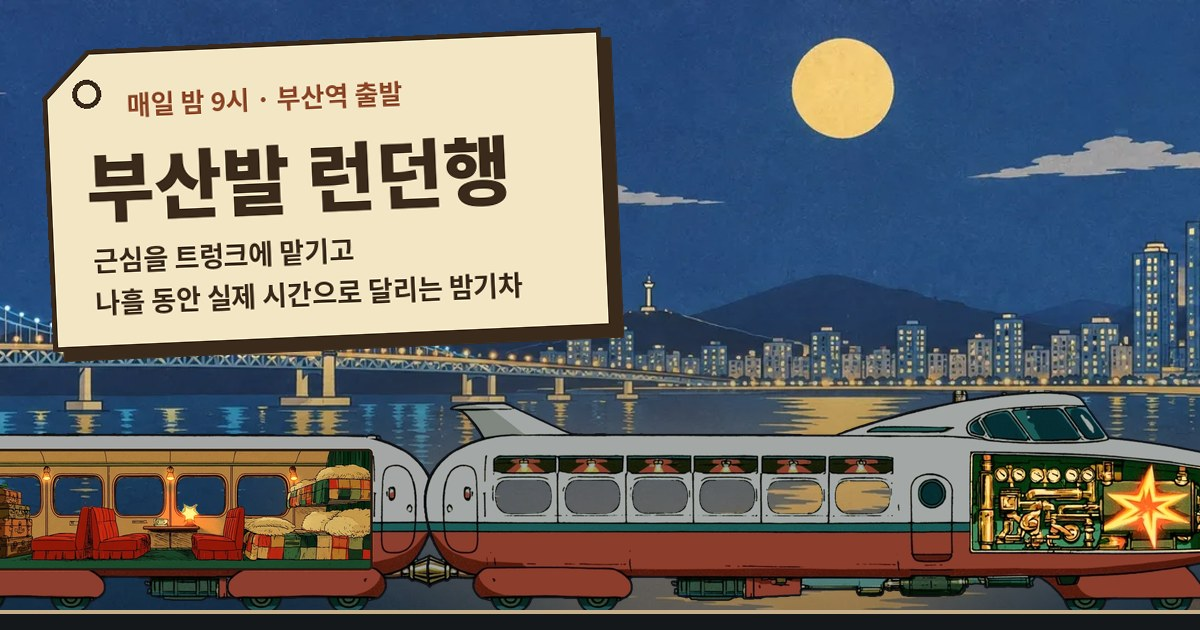
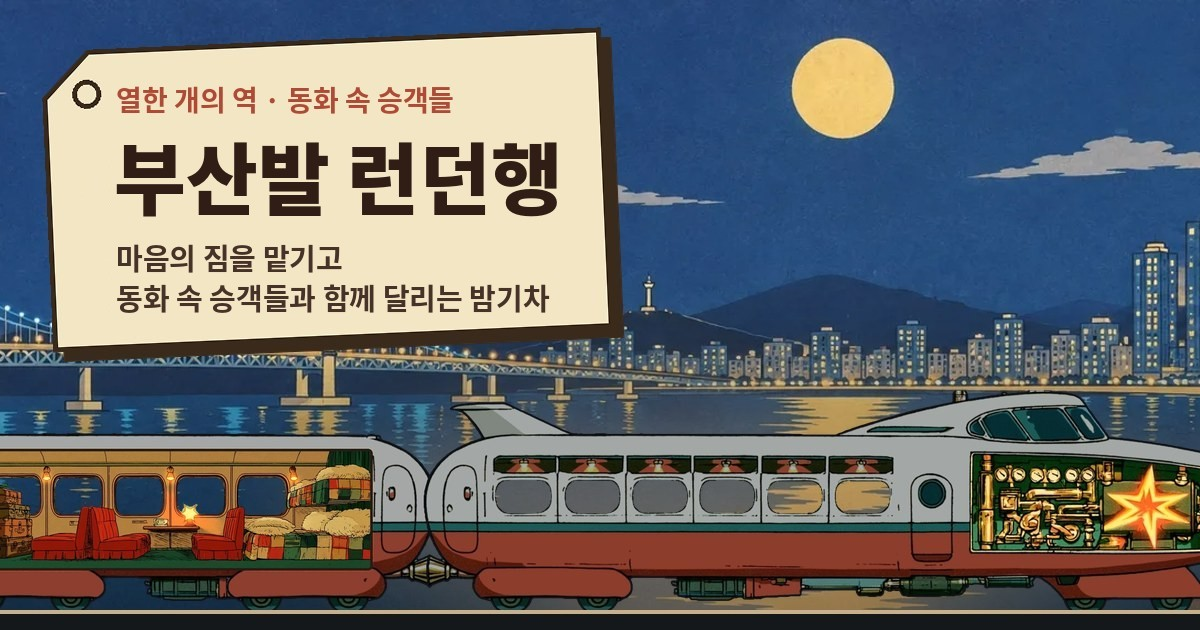
QA fixes: particle, copy, sparkle, mobile hint, seat next button, ticket duration, new og image
Claude-Session: https://claude.ai/code/session_015fNbvzvz4xuREQtMjmLhTY

Changed region(s): [[0.0617, 0.2111, 0.4625, 0.5127], [0.0925, 0.1206, 0.4008, 0.181]]

diff --git a/index.html b/index.html
@@ -2,13 +2,13 @@
 <html lang="ko"><head><meta charset="utf-8"><base href="/stage/"><script>try{if(!localStorage.getItem("bl_trip")&&!/[?&](h|seat)=?/.test(location.search))document.documentElement.classList.add("notrip")}catch(e){}</script><style>html.notrip body::before{content:"";position:fixed;inset:0;background:#0b1418;z-index:44}</style>
 <meta name="viewport" content="width=device-width,initial-scale=1,viewport-fit=cover,user-scalable=no">
 <title>부산발 런던행 — 마음의 짐을 맡기는 밤기차</title>
-<meta name="description" content="마음의 짐을 트렁크에 맡기는 순간 부산역을 떠나, 하루 동안 실제 시간으로 런던까지 달리는 꿈의 밤기차. 창가에 앉아 보세요.">
+<meta name="description" content="마음의 짐을 꼬리표에 맡기고, 열한 개의 역마다 동화 속 승객을 만나 런던까지 함께 가는 따뜻한 밤기차.">
 <meta property="og:type" content="website"><meta property="og:site_name" content="부산발 런던행">
 <meta property="og:title" content="부산발 런던행 — 마음의 짐을 맡기는 밤기차">
 <meta property="og:description" content="마음의 짐을 꼬리표에 적어 맡기면 부산역 출발. 동화 속 승객들이 서로의 짐을 들어 주는 런던행 열차.">
-<meta property="og:url" content="https://ejdms499-wq.github.io/"><meta property="og:image" content="https://ejdms499-wq.github.io/og.jpg?v=2">
+<meta property="og:url" content="https://ejdms499-wq.github.io/"><meta property="og:image" content="https://ejdms499-wq.github.io/og.jpg?v=3">
 <meta property="og:image:width" content="1200"><meta property="og:image:height" content="630"><meta property="og:locale" content="ko_KR">
-<meta name="twitter:card" content="summary_large_image"><meta name="twitter:image" content="https://ejdms499-wq.github.io/og.jpg?v=2">
+<meta name="twitter:card" content="summary_large_image"><meta name="twitter:image" content="https://ejdms499-wq.github.io/og.jpg?v=3">
 <meta name="theme-color" content="#0d2230"><link rel="icon" href="/icon.png"><link rel="apple-touch-icon" href="/icon.png">
 
 <style>
@@ -135,7 +135,7 @@ body.talk #snd,body.talk #trk,body.talk #seat{opacity:.0;pointer-events:none}
   -webkit-mask:radial-gradient(circle at 50% 38%,transparent 26%,#000 60%);mask:radial-gradient(circle at 50% 38%,transparent 26%,#000 60%)}
 
 @keyframes spin{to{filter:hue-rotate(0deg);transform:rotate(3deg)}}
-#cg .spk{background-image:radial-gradient(circle,#fff6d8 0 2px,transparent 3px),radial-gradient(circle,#fff6d8 0 1.5px,transparent 2.5px);background-size:90px 110px,57px 73px;background-position:0 0,30px 20px}
+#cg .spk{background-image:radial-gradient(circle,rgba(255,246,216,.85) 0 1.6px,transparent 2.6px),radial-gradient(circle,rgba(255,246,216,.55) 0 1.1px,transparent 2px),radial-gradient(circle,rgba(255,236,190,.7) 0 2.2px,transparent 3.4px);background-size:173px 211px,97px 131px,317px 263px;background-position:11px 37px,61px 5px,140px 90px;-webkit-mask-image:radial-gradient(ellipse at 50% 40%,#000 25%,rgba(0,0,0,.25) 75%);mask-image:radial-gradient(ellipse at 50% 40%,#000 25%,rgba(0,0,0,.25) 75%)}
 #cg .spk.on{animation:spk 3s linear infinite}
 @keyframes spk{to{background-position:0 -220px,30px -126px}}
 #cg .snow{background-image:radial-gradient(circle,#fff 0 2px,transparent 3px),radial-gradient(circle,#fff 0 1.4px,transparent 2.4px);background-size:70px 70px,43px 51px}
@@ -433,6 +433,9 @@ body.talk #nextB,body.amb #nextB,body.intro #nextB{opacity:0!important;pointer-e
 body.talk #carP,body.amb #carP{opacity:0!important;pointer-events:none!important}
 @media (max-width:520px){#carP{bottom:calc(150px + env(safe-area-inset-bottom))}}
 #cg .item img.dish{width:min(220px,60vw);aspect-ratio:1;object-fit:cover;border-radius:50%;border:3px solid #3a2a1c;box-shadow:3px 3px 0 #3a2a1c;display:block;margin:0 auto 6px}
+@media (max-width:520px){#hint{display:none!important}}
+body.seat #nextB{bottom:auto;top:calc(76px + env(safe-area-inset-top))}
+@media (max-width:520px){body.seat #nextB{top:calc(96px + env(safe-area-inset-top))}}
 </style></head><body>
 <div id="tag"><b>부산</b><span id="tagS">그림 겹 무대 · 시험판</span><i id="tagI"></i></div>
 <div id="dev"><span>출발 후</span><input id="devR" type="range" min="0" max="91.9" step="0.1"><span id="devV"></span></div>
@@ -1291,7 +1294,7 @@ function showWait(){waitEl.style.backgroundImage='';waitEl.classList.add('on');d
 function hideWait(){waitEl.classList.remove('on');document.body.classList.remove('talk');clearInterval(waitT)}
 function renderWait(){if(TRIP&&!TRIP.fin){hideWait();return}
   const arrived=!!TRIP;
-  if(arrived){$('wBoard').innerHTML=`<small>LONDON · 종착역</small><b>런던에 도착했어요</b><div class="st" style="margin-top:6px">하룻밤 하룻낮, 수고 많았어요.${LS.get('bl_end',null)?'<br>맡겼던 마음의 짐은 트렁크와 함께 돌려받았어요.':''}</div>`;
+  if(arrived){$('wBoard').innerHTML=`<small>LONDON · 종착역</small><b>런던에 도착했어요</b><div class="st" style="margin-top:6px">열한 개의 역, 수고 많았어요.${LS.get('bl_end',null)?'<br>맡겼던 마음의 짐은 트렁크와 함께 돌려받았어요.':''}</div>`;
     if(renderWait.b!=='a'){renderWait.b='a';
       $('wBtns').innerHTML=(LS.get('bl_end',null)?'<button class="pbtn2" id="wRp">✉ 셜록의 엽서 보기</button>':'')+'<button class="pbtn2'+(LS.get('bl_end',null)?' l':'')+'" id="wAg">새 새 짐 맡기고 다시 타기</button><button class="pbtn2 l" id="wStay">런던 창밖 조금 더 보기</button>';
       const r=$('wRp');if(r)r.onclick=()=>showReply();
@@ -1542,7 +1545,7 @@ post.querySelectorAll('.albT button').forEach(b=>b.onclick=()=>postOpen(b.datase
 function postOpen(t){postOpen.tab=t;post.classList.add('on');post.querySelectorAll('.albT button').forEach(b=>b.classList.toggle('on',b.dataset.t===t));
   const box=post.querySelector('.pB');
   if(t==='mail'){const L=mailList();
-    if(!L.length){box.innerHTML='<p class="cnt">아직 받은 편지가 없어요.<br>맞은편 승객과 이야기를 나누면, 그 사람이 내린 뒤 편지가 와요.</p>';return}
+    if(!L.length){box.innerHTML='<p class="cnt">아직 받은 편지가 없어요.<br>승객과 함께 역을 지나면, 그 승객이 편지가 와요.</p>';return}
     box.innerHTML='<p class="cnt">받은 편지 '+L.length+'통</p><div class="envs">'+L.map(([k,v])=>{const [id,ty]=k.split(':'),c=CAST[id],m=MAIL[id],th=TH[id]||{};
       return `<button class="env${v.read?'':' un'}" data-k="${k}" style="--ac:${th.acc||'#8a5a2b'};--bg:${th.bg||'#f3e6c4'}"><span class="stp">${m.st}</span><b>${c?c.n:''}</b><small>${ty==='l3'?'단짝 편지':'역을 지나며 쓴 편지'}</small></button>`}).join('')+'</div>';
     box.querySelectorAll('.env').forEach(b=>b.onclick=()=>letterOpen(b.dataset.k));return}
@@ -1593,20 +1596,20 @@ function makeTicket(){const T=TRUNK&&TRIP&&TRUNK.dep===TRIP.dep?TRUNK:null;card.
   g.strokeStyle='rgba(90,61,34,.08)';g.lineWidth=2;for(let y=8;y<H;y+=9){g.beginPath();g.moveTo(x,y);g.lineTo(x+W,y);g.stroke()}
   g.fillStyle='#0b1418';g.beginPath();g.arc(0,70,30,0,7);g.fill();g.lineWidth=12;g.strokeStyle='#b8a27a';g.stroke();
   g.fillStyle='#3a2a1c';g.textAlign='center';g.font='700 30px '+F;g.fillText('부산발 런던행 · 승차권',0,180);
-  g.font='900 70px '+F;g.textAlign='left';g.fillText('BUSAN',x+56,300);g.textAlign='right';g.fillText('LONDON',x+W-56,300);g.textAlign='center';g.font='700 38px '+F;g.fillText('→',0,290);
+  g.font='900 62px '+F;g.textAlign='left';g.fillText('BUSAN',x+56,300);g.textAlign='right';g.fillText('LONDON',x+W-56,300);g.textAlign='center';g.font='700 38px '+F;g.fillText('→',0,290);
   g.fillRect(x+56,326,W-112,6);
   const row=(y,a,b)=>{g.textAlign='left';g.font='700 28px '+F;g.globalAlpha=.7;g.fillText(a,x+60,y);g.globalAlpha=1;g.textAlign='right';g.font='800 40px '+F;g.fillText(b,x+W-60,y)};
   row(410,'출발','부산 · '+hm(TRIP&&TRIP.dep||Date.now()));row(480,'도착','런던 · 11번째 역');row(550,'수하물',T?'#'+T.no:'빈 트렁크');row(620,'맡긴 짐',T?'🔒 마음의 짐 1개':'없음 · 그냥 탔어요');
   g.setLineDash([14,10]);g.lineWidth=3;g.strokeStyle='#3a2a1c';g.beginPath();g.moveTo(x+56,670);g.lineTo(x+W-56,670);g.stroke();g.setLineDash([]);
   g.textAlign='center';g.font='700 36px "Gaegu",'+F;g.fillText(T?'이 짐은 런던역에서 찾아요':'창가 자리에서 쉬어 갈게요',0,750);
-  g.font='600 26px '+F;g.globalAlpha=.75;g.fillText(CNT?'오늘 마음의 짐 '+CNT+'개가 부산역을 떠났어요':'도시마다 가장 아름다운 시각에 지나가요',0,810);g.globalAlpha=1;
+  g.font='600 26px '+F;g.globalAlpha=.75;g.fillText(CNT?'오늘 마음의 짐 '+CNT+'개가 부산역을 떠났어요':'역마다 동화 속 승객이 타요',0,810);g.globalAlpha=1;
   g.save();g.translate(W/2-140,905);g.rotate(-.25);g.strokeStyle='#b8312f';g.fillStyle='#b8312f';g.lineWidth=7;g.beginPath();g.arc(0,0,92,0,7);g.stroke();g.lineWidth=3;g.beginPath();g.arc(0,0,78,0,7);g.stroke();
   g.font='900 46px '+F;g.fillText('접수',0,6);g.font='700 22px '+F;g.fillText('BSN→LDN',0,42);g.font='700 20px '+F;g.fillText('제 '+trainNo(dep)+'호',0,-38);g.restore();
   g.textAlign='left';g.font='600 24px '+F;g.globalAlpha=.6;g.fillText('ejdms499-wq.github.io',x+60,H-40);g.globalAlpha=1;
   g.restore();card.classList.add('on')}
 const tkB=document.createElement('button');tkB.id='tkB';tkB.className='paper';tkB.innerHTML='🎫 승차권이 나왔어요 <small>저장 · 공유</small>';document.body.appendChild(tkB);
 tkB.onclick=e=>{e.stopPropagation();tkB.classList.remove('on');makeTicket()};
-function tkShow(){tkB.classList.add('on');clearTimeout(tkShow.t);tkShow.t=setTimeout(()=>tkB.classList.remove('on'),14000)}
+function tkShow(){tkB.classList.add('on');clearTimeout(tkShow.t);tkShow.t=setTimeout(()=>tkB.classList.remove('on'),45000)}
 /* 소리: 브라우저 규칙상 첫 터치/입력 때 자동으로 켬 */
 let sndAuto=false;const sndFirst=()=>{if(sndAuto)return;sndAuto=true;try{if(!sndOn&&!LS.get('bl_mute',0))$('snd').click()}catch(e){}};
 addEventListener('pointerdown',sndFirst,{capture:true,once:true});addEventListener('keydown',sndFirst,{capture:true,once:true});
@@ -1841,6 +1844,7 @@ clueList=function(){return ''};
 sherIdle=function(){const L=['이 호수는 얼었는데, 이상하게 마음은 덜 춥군.','추리할 게 없으니 창밖을 보게 되네. 나쁘지 않아.','차는 우유를 나중에 붓는 게 맞네. 이건 추리가 아니라 진리일세.','자네 덕에 시계가 다시 간다네.'];return L[Math.floor(Math.random()*L.length)]};
 
 /* ---- 화면: 노선표(꼬리표 안) · 다음 역 버튼 ---- */
+function ro(n){const c=n.charCodeAt(n.length-1);if(c<0xAC00||c>0xD7A3)return '로';const j=(c-0xAC00)%28;return (j===0||j===8)?'로':'으로'}
 const nextB=document.createElement('button');nextB.id='nextB';nextB.className='paper';document.body.appendChild(nextB);
 function dots(i){return CH.map((c,k)=>`<i class="${k<i?'p':k===i?'c':''}" title="${c.name}"></i>`).join('')}
 function uiTick(){if(!TRIP||document.body.classList.contains('intro')){nextB.classList.remove('on');return}
@@ -1849,7 +1853,7 @@ function uiTick(){if(!TRIP||document.body.classList.contains('intro')){nextB.cla
     try{const w=where(dep,vnow());tagS.innerHTML='<span class="route">'+dots(TRIP.tr?TRIP.tr.to:i)+'</span>'+(w.mode==='run'?' '+w.seg.name:'')}catch(e){}
     tagI.textContent=TRIP.tr?'창밖을 보세요 · 곧 '+CH[TRIP.tr.to].name+' 도착':!TRIP.done[i]?'이 역에서 새 승객이 타요':nx?'다음 역 · '+nx.name+(CNT?' · 오늘 짐 '+CNT+'개':''):'종착역 · 트렁크를 찾을 수 있어요'}
   let show=!busy&&!AMB&&!TRIP.fin&&!carP.classList.contains('on');let txt='';
-  if(TRIP.tr){txt='🚂 '+CH[TRIP.tr.to].name+'(으)로 가는 중…';nextB.disabled=true}
+  if(TRIP.tr){txt='🚂 '+CH[TRIP.tr.to].name+ro(CH[TRIP.tr.to].name)+' 가는 중…';nextB.disabled=true}
   else if(!TRIP.done[i]){txt='🎫 '+CAST[c.ev[0]].n+' 탑승 이야기 보기';nextB.disabled=false;nextB.dataset.a='story'}
   else if(nx){txt='다음 역으로 ▶ '+nx.name;nextB.disabled=false;nextB.dataset.a='next'}
   else{txt=TRUNK&&!TRUNK.done?'🧳 런던역 도착 · 트렁크 찾기':'🌅 런던역에서 내리기';nextB.disabled=false;nextB.dataset.a='end'}
@@ -2087,7 +2091,7 @@ function carOpen(c){const k=c.userData.k,[nm,ds]=CARINFO[k]||[c.userData.name,''
   if(k==='loco')b+='<button class="pbtn2" data-a="whistle">🚂 기적 울리기</button>';
   const ppl=who.length?'<div class="cp">'+who.map(id=>`<button class="pbtn2 l" data-p="${id}">${CAST[id].n}</button>`).join('')+'</div>':'';
   carP.innerHTML=`<div class="ch"><button class="arw" data-m="-1">◀</button><div><b>${nm}</b><small>${ds}</small></div><button class="arw" data-m="1">▶</button></div>${b}${ppl?'<div class="cnt" style="margin-top:8px">이 칸 승객 · 누르면 내 자리로 초대</div>'+ppl:''}`;
-  carP.classList.add('on');
+  carP.classList.add('on');nextB.classList.remove('on');
   carP.querySelectorAll('[data-m]').forEach(x=>x.onclick=e=>{e.stopPropagation();const n=cars[(idx+(+x.dataset.m)+cars.length)%cars.length];focusCar(n)});
   carP.querySelectorAll('[data-p]').forEach(x=>x.onclick=e=>{e.stopPropagation();carP.classList.remove('on');invite(x.dataset.p)});
   carP.querySelectorAll('[data-a]').forEach(x=>x.onclick=e=>{e.stopPropagation();const a=x.dataset.a;

diff --git a/stage/index.html b/stage/index.html
@@ -2,13 +2,13 @@
 <html lang="ko"><head><meta charset="utf-8"><script>try{if(!localStorage.getItem("bl_trip")&&!/[?&](h|seat)=?/.test(location.search))document.documentElement.classList.add("notrip")}catch(e){}</script><style>html.notrip body::before{content:"";position:fixed;inset:0;background:#0b1418;z-index:44}</style>
 <meta name="viewport" content="width=device-width,initial-scale=1,viewport-fit=cover,user-scalable=no">
 <title>부산발 런던행 — 마음의 짐을 맡기는 밤기차</title>
-<meta name="description" content="마음의 짐을 트렁크에 맡기는 순간 부산역을 떠나, 하루 동안 실제 시간으로 런던까지 달리는 꿈의 밤기차. 창가에 앉아 보세요.">
+<meta name="description" content="마음의 짐을 꼬리표에 맡기고, 열한 개의 역마다 동화 속 승객을 만나 런던까지 함께 가는 따뜻한 밤기차.">
 <meta property="og:type" content="website"><meta property="og:site_name" content="부산발 런던행">
 <meta property="og:title" content="부산발 런던행 — 마음의 짐을 맡기는 밤기차">
 <meta property="og:description" content="마음의 짐을 꼬리표에 적어 맡기면 부산역 출발. 동화 속 승객들이 서로의 짐을 들어 주는 런던행 열차.">
-<meta property="og:url" content="https://ejdms499-wq.github.io/"><meta property="og:image" content="https://ejdms499-wq.github.io/og.jpg?v=2">
+<meta property="og:url" content="https://ejdms499-wq.github.io/"><meta property="og:image" content="https://ejdms499-wq.github.io/og.jpg?v=3">
 <meta property="og:image:width" content="1200"><meta property="og:image:height" content="630"><meta property="og:locale" content="ko_KR">
-<meta name="twitter:card" content="summary_large_image"><meta name="twitter:image" content="https://ejdms499-wq.github.io/og.jpg?v=2">
+<meta name="twitter:card" content="summary_large_image"><meta name="twitter:image" content="https://ejdms499-wq.github.io/og.jpg?v=3">
 <meta name="theme-color" content="#0d2230"><link rel="icon" href="/icon.png"><link rel="apple-touch-icon" href="/icon.png">
 
 <style>
@@ -135,7 +135,7 @@ body.talk #snd,body.talk #trk,body.talk #seat{opacity:.0;pointer-events:none}
   -webkit-mask:radial-gradient(circle at 50% 38%,transparent 26%,#000 60%);mask:radial-gradient(circle at 50% 38%,transparent 26%,#000 60%)}
 
 @keyframes spin{to{filter:hue-rotate(0deg);transform:rotate(3deg)}}
-#cg .spk{background-image:radial-gradient(circle,#fff6d8 0 2px,transparent 3px),radial-gradient(circle,#fff6d8 0 1.5px,transparent 2.5px);background-size:90px 110px,57px 73px;background-position:0 0,30px 20px}
+#cg .spk{background-image:radial-gradient(circle,rgba(255,246,216,.85) 0 1.6px,transparent 2.6px),radial-gradient(circle,rgba(255,246,216,.55) 0 1.1px,transparent 2px),radial-gradient(circle,rgba(255,236,190,.7) 0 2.2px,transparent 3.4px);background-size:173px 211px,97px 131px,317px 263px;background-position:11px 37px,61px 5px,140px 90px;-webkit-mask-image:radial-gradient(ellipse at 50% 40%,#000 25%,rgba(0,0,0,.25) 75%);mask-image:radial-gradient(ellipse at 50% 40%,#000 25%,rgba(0,0,0,.25) 75%)}
 #cg .spk.on{animation:spk 3s linear infinite}
 @keyframes spk{to{background-position:0 -220px,30px -126px}}
 #cg .snow{background-image:radial-gradient(circle,#fff 0 2px,transparent 3px),radial-gradient(circle,#fff 0 1.4px,transparent 2.4px);background-size:70px 70px,43px 51px}
@@ -433,6 +433,9 @@ body.talk #nextB,body.amb #nextB,body.intro #nextB{opacity:0!important;pointer-e
 body.talk #carP,body.amb #carP{opacity:0!important;pointer-events:none!important}
 @media (max-width:520px){#carP{bottom:calc(150px + env(safe-area-inset-bottom))}}
 #cg .item img.dish{width:min(220px,60vw);aspect-ratio:1;object-fit:cover;border-radius:50%;border:3px solid #3a2a1c;box-shadow:3px 3px 0 #3a2a1c;display:block;margin:0 auto 6px}
+@media (max-width:520px){#hint{display:none!important}}
+body.seat #nextB{bottom:auto;top:calc(76px + env(safe-area-inset-top))}
+@media (max-width:520px){body.seat #nextB{top:calc(96px + env(safe-area-inset-top))}}
 </style></head><body>
 <div id="tag"><b>부산</b><span id="tagS">그림 겹 무대 · 시험판</span><i id="tagI"></i></div>
 <div id="dev"><span>출발 후</span><input id="devR" type="range" min="0" max="91.9" step="0.1"><span id="devV"></span></div>
@@ -1291,7 +1294,7 @@ function showWait(){waitEl.style.backgroundImage='';waitEl.classList.add('on');d
 function hideWait(){waitEl.classList.remove('on');document.body.classList.remove('talk');clearInterval(waitT)}
 function renderWait(){if(TRIP&&!TRIP.fin){hideWait();return}
   const arrived=!!TRIP;
-  if(arrived){$('wBoard').innerHTML=`<small>LONDON · 종착역</small><b>런던에 도착했어요</b><div class="st" style="margin-top:6px">하룻밤 하룻낮, 수고 많았어요.${LS.get('bl_end',null)?'<br>맡겼던 마음의 짐은 트렁크와 함께 돌려받았어요.':''}</div>`;
+  if(arrived){$('wBoard').innerHTML=`<small>LONDON · 종착역</small><b>런던에 도착했어요</b><div class="st" style="margin-top:6px">열한 개의 역, 수고 많았어요.${LS.get('bl_end',null)?'<br>맡겼던 마음의 짐은 트렁크와 함께 돌려받았어요.':''}</div>`;
     if(renderWait.b!=='a'){renderWait.b='a';
       $('wBtns').innerHTML=(LS.get('bl_end',null)?'<button class="pbtn2" id="wRp">✉ 셜록의 엽서 보기</button>':'')+'<button class="pbtn2'+(LS.get('bl_end',null)?' l':'')+'" id="wAg">새 새 짐 맡기고 다시 타기</button><button class="pbtn2 l" id="wStay">런던 창밖 조금 더 보기</button>';
       const r=$('wRp');if(r)r.onclick=()=>showReply();
@@ -1542,7 +1545,7 @@ post.querySelectorAll('.albT button').forEach(b=>b.onclick=()=>postOpen(b.datase
 function postOpen(t){postOpen.tab=t;post.classList.add('on');post.querySelectorAll('.albT button').forEach(b=>b.classList.toggle('on',b.dataset.t===t));
   const box=post.querySelector('.pB');
   if(t==='mail'){const L=mailList();
-    if(!L.length){box.innerHTML='<p class="cnt">아직 받은 편지가 없어요.<br>맞은편 승객과 이야기를 나누면, 그 사람이 내린 뒤 편지가 와요.</p>';return}
+    if(!L.length){box.innerHTML='<p class="cnt">아직 받은 편지가 없어요.<br>승객과 함께 역을 지나면, 그 승객이 편지가 와요.</p>';return}
     box.innerHTML='<p class="cnt">받은 편지 '+L.length+'통</p><div class="envs">'+L.map(([k,v])=>{const [id,ty]=k.split(':'),c=CAST[id],m=MAIL[id],th=TH[id]||{};
       return `<button class="env${v.read?'':' un'}" data-k="${k}" style="--ac:${th.acc||'#8a5a2b'};--bg:${th.bg||'#f3e6c4'}"><span class="stp">${m.st}</span><b>${c?c.n:''}</b><small>${ty==='l3'?'단짝 편지':'역을 지나며 쓴 편지'}</small></button>`}).join('')+'</div>';
     box.querySelectorAll('.env').forEach(b=>b.onclick=()=>letterOpen(b.dataset.k));return}
@@ -1593,20 +1596,20 @@ function makeTicket(){const T=TRUNK&&TRIP&&TRUNK.dep===TRIP.dep?TRUNK:null;card.
   g.strokeStyle='rgba(90,61,34,.08)';g.lineWidth=2;for(let y=8;y<H;y+=9){g.beginPath();g.moveTo(x,y);g.lineTo(x+W,y);g.stroke()}
   g.fillStyle='#0b1418';g.beginPath();g.arc(0,70,30,0,7);g.fill();g.lineWidth=12;g.strokeStyle='#b8a27a';g.stroke();
   g.fillStyle='#3a2a1c';g.textAlign='center';g.font='700 30px '+F;g.fillText('부산발 런던행 · 승차권',0,180);
-  g.font='900 70px '+F;g.textAlign='left';g.fillText('BUSAN',x+56,300);g.textAlign='right';g.fillText('LONDON',x+W-56,300);g.textAlign='center';g.font='700 38px '+F;g.fillText('→',0,290);
+  g.font='900 62px '+F;g.textAlign='left';g.fillText('BUSAN',x+56,300);g.textAlign='right';g.fillText('LONDON',x+W-56,300);g.textAlign='center';g.font='700 38px '+F;g.fillText('→',0,290);
   g.fillRect(x+56,326,W-112,6);
   const row=(y,a,b)=>{g.textAlign='left';g.font='700 28px '+F;g.globalAlpha=.7;g.fillText(a,x+60,y);g.globalAlpha=1;g.textAlign='right';g.font='800 40px '+F;g.fillText(b,x+W-60,y)};
   row(410,'출발','부산 · '+hm(TRIP&&TRIP.dep||Date.now()));row(480,'도착','런던 · 11번째 역');row(550,'수하물',T?'#'+T.no:'빈 트렁크');row(620,'맡긴 짐',T?'🔒 마음의 짐 1개':'없음 · 그냥 탔어요');
   g.setLineDash([14,10]);g.lineWidth=3;g.strokeStyle='#3a2a1c';g.beginPath();g.moveTo(x+56,670);g.lineTo(x+W-56,670);g.stroke();g.setLineDash([]);
   g.textAlign='center';g.font='700 36px "Gaegu",'+F;g.fillText(T?'이 짐은 런던역에서 찾아요':'창가 자리에서 쉬어 갈게요',0,750);
-  g.font='600 26px '+F;g.globalAlpha=.75;g.fillText(CNT?'오늘 마음의 짐 '+CNT+'개가 부산역을 떠났어요':'도시마다 가장 아름다운 시각에 지나가요',0,810);g.globalAlpha=1;
+  g.font='600 26px '+F;g.globalAlpha=.75;g.fillText(CNT?'오늘 마음의 짐 '+CNT+'개가 부산역을 떠났어요':'역마다 동화 속 승객이 타요',0,810);g.globalAlpha=1;
   g.save();g.translate(W/2-140,905);g.rotate(-.25);g.strokeStyle='#b8312f';g.fillStyle='#b8312f';g.lineWidth=7;g.beginPath();g.arc(0,0,92,0,7);g.stroke();g.lineWidth=3;g.beginPath();g.arc(0,0,78,0,7);g.stroke();
   g.font='900 46px '+F;g.fillText('접수',0,6);g.font='700 22px '+F;g.fillText('BSN→LDN',0,42);g.font='700 20px '+F;g.fillText('제 '+trainNo(dep)+'호',0,-38);g.restore();
   g.textAlign='left';g.font='600 24px '+F;g.globalAlpha=.6;g.fillText('ejdms499-wq.github.io',x+60,H-40);g.globalAlpha=1;
   g.restore();card.classList.add('on')}
 const tkB=document.createElement('button');tkB.id='tkB';tkB.className='paper';tkB.innerHTML='🎫 승차권이 나왔어요 <small>저장 · 공유</small>';document.body.appendChild(tkB);
 tkB.onclick=e=>{e.stopPropagation();tkB.classList.remove('on');makeTicket()};
-function tkShow(){tkB.classList.add('on');clearTimeout(tkShow.t);tkShow.t=setTimeout(()=>tkB.classList.remove('on'),14000)}
+function tkShow(){tkB.classList.add('on');clearTimeout(tkShow.t);tkShow.t=setTimeout(()=>tkB.classList.remove('on'),45000)}
 /* 소리: 브라우저 규칙상 첫 터치/입력 때 자동으로 켬 */
 let sndAuto=false;const sndFirst=()=>{if(sndAuto)return;sndAuto=true;try{if(!sndOn&&!LS.get('bl_mute',0))$('snd').click()}catch(e){}};
 addEventListener('pointerdown',sndFirst,{capture:true,once:true});addEventListener('keydown',sndFirst,{capture:true,once:true});
@@ -1841,6 +1844,7 @@ clueList=function(){return ''};
 sherIdle=function(){const L=['이 호수는 얼었는데, 이상하게 마음은 덜 춥군.','추리할 게 없으니 창밖을 보게 되네. 나쁘지 않아.','차는 우유를 나중에 붓는 게 맞네. 이건 추리가 아니라 진리일세.','자네 덕에 시계가 다시 간다네.'];return L[Math.floor(Math.random()*L.length)]};
 
 /* ---- 화면: 노선표(꼬리표 안) · 다음 역 버튼 ---- */
+function ro(n){const c=n.charCodeAt(n.length-1);if(c<0xAC00||c>0xD7A3)return '로';const j=(c-0xAC00)%28;return (j===0||j===8)?'로':'으로'}
 const nextB=document.createElement('button');nextB.id='nextB';nextB.className='paper';document.body.appendChild(nextB);
 function dots(i){return CH.map((c,k)=>`<i class="${k<i?'p':k===i?'c':''}" title="${c.name}"></i>`).join('')}
 function uiTick(){if(!TRIP||document.body.classList.contains('intro')){nextB.classList.remove('on');return}
@@ -1849,7 +1853,7 @@ function uiTick(){if(!TRIP||document.body.classList.contains('intro')){nextB.cla
     try{const w=where(dep,vnow());tagS.innerHTML='<span class="route">'+dots(TRIP.tr?TRIP.tr.to:i)+'</span>'+(w.mode==='run'?' '+w.seg.name:'')}catch(e){}
     tagI.textContent=TRIP.tr?'창밖을 보세요 · 곧 '+CH[TRIP.tr.to].name+' 도착':!TRIP.done[i]?'이 역에서 새 승객이 타요':nx?'다음 역 · '+nx.name+(CNT?' · 오늘 짐 '+CNT+'개':''):'종착역 · 트렁크를 찾을 수 있어요'}
   let show=!busy&&!AMB&&!TRIP.fin&&!carP.classList.contains('on');let txt='';
-  if(TRIP.tr){txt='🚂 '+CH[TRIP.tr.to].name+'(으)로 가는 중…';nextB.disabled=true}
+  if(TRIP.tr){txt='🚂 '+CH[TRIP.tr.to].name+ro(CH[TRIP.tr.to].name)+' 가는 중…';nextB.disabled=true}
   else if(!TRIP.done[i]){txt='🎫 '+CAST[c.ev[0]].n+' 탑승 이야기 보기';nextB.disabled=false;nextB.dataset.a='story'}
   else if(nx){txt='다음 역으로 ▶ '+nx.name;nextB.disabled=false;nextB.dataset.a='next'}
   else{txt=TRUNK&&!TRUNK.done?'🧳 런던역 도착 · 트렁크 찾기':'🌅 런던역에서 내리기';nextB.disabled=false;nextB.dataset.a='end'}
@@ -2087,7 +2091,7 @@ function carOpen(c){const k=c.userData.k,[nm,ds]=CARINFO[k]||[c.userData.name,''
   if(k==='loco')b+='<button class="pbtn2" data-a="whistle">🚂 기적 울리기</button>';
   const ppl=who.length?'<div class="cp">'+who.map(id=>`<button class="pbtn2 l" data-p="${id}">${CAST[id].n}</button>`).join('')+'</div>':'';
   carP.innerHTML=`<div class="ch"><button class="arw" data-m="-1">◀</button><div><b>${nm}</b><small>${ds}</small></div><button class="arw" data-m="1">▶</button></div>${b}${ppl?'<div class="cnt" style="margin-top:8px">이 칸 승객 · 누르면 내 자리로 초대</div>'+ppl:''}`;
-  carP.classList.add('on');
+  carP.classList.add('on');nextB.classList.remove('on');
   carP.querySelectorAll('[data-m]').forEach(x=>x.onclick=e=>{e.stopPropagation();const n=cars[(idx+(+x.dataset.m)+cars.length)%cars.length];focusCar(n)});
   carP.querySelectorAll('[data-p]').forEach(x=>x.onclick=e=>{e.stopPropagation();carP.classList.remove('on');invite(x.dataset.p)});
   carP.querySelectorAll('[data-a]').forEach(x=>x.onclick=e=>{e.stopPropagation();const a=x.dataset.a;
